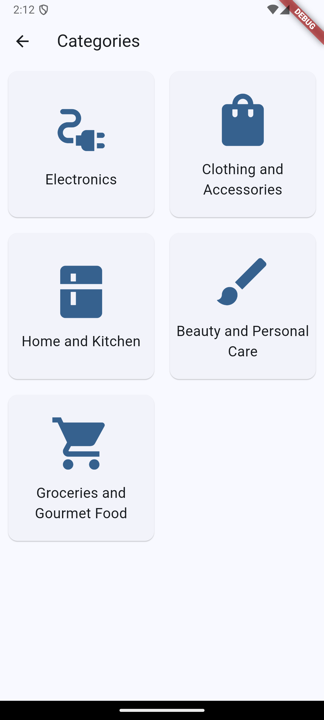
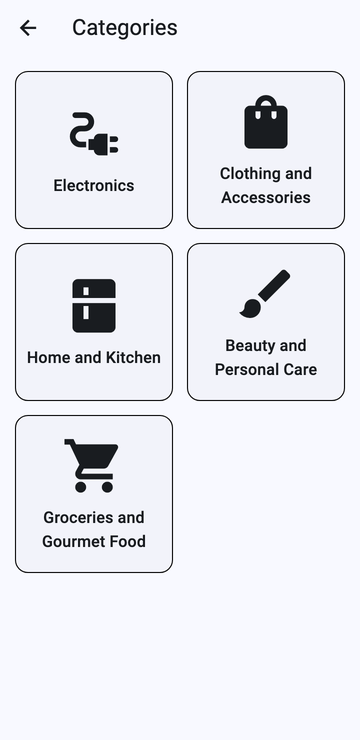
README: demo GIF, updated screenshots, features and accessibility
Screenshots and the GIF frames are rendered from the current app by
tool/render_frames_test.dart.

diff --git a/tool/render_frames_test.dart b/tool/render_frames_test.dart
@@ -1,0 +1,121 @@
+// Renders the README screenshots and demo-GIF frames from the real app,
+// using the Roboto and Material Icons fonts that ship with the Flutter SDK.
+// Not part of the test suite. Run with:
+//
+//   flutter test tool/render_frames_test.dart
+//
+// PNGs (720x1480) are written to build/frames, or to $FRAMES_DIR if set.
+import 'dart:io';
+import 'dart:ui' as ui;
+
+import 'package:flutter/material.dart';
+import 'package:flutter/rendering.dart';
+import 'package:flutter/services.dart';
+import 'package:flutter_test/flutter_test.dart';
+import 'package:shopping_app/data/product_catalog.dart';
+
+import '../test/widget/test_app.dart';
+
+final fonts = '${Platform.environment['FLUTTER_ROOT']}/bin/cache/artifacts/material_fonts/';
+final out = Platform.environment['FRAMES_DIR'] ?? 'build/frames';
+
+Future<void> loadFont(String family, List<String> files) async {
+  final loader = FontLoader(family);
+  for (final f in files) {
+    final bytes = File('$fonts$f').readAsBytesSync();
+    loader.addFont(Future.value(ByteData.view(bytes.buffer)));
+  }
+  await loader.load();
+}
+
+var frame = 0;
+Future<void> snap(WidgetTester tester, String name) async {
+  // Let images decode and colour analysis finish.
+  for (var i = 0; i < 3; i++) {
+    await tester.runAsync(() async {
+      for (final element in find.byType(Image).evaluate()) {
+        final widget = element.widget as Image;
+        await precacheImage(widget.image, element);
+      }
+      await Future<void>.delayed(const Duration(milliseconds: 300));
+    });
+    await tester.pumpAndSettle();
+  }
+  final boundary = tester.renderObject<RenderRepaintBoundary>(find.byKey(const Key('root')).first);
+  await tester.runAsync(() async {
+    final image = await boundary.toImage(pixelRatio: 2);
+    final data = await image.toByteData(format: ui.ImageByteFormat.png);
+    File('$out/${(frame++).toString().padLeft(2, '0')}_$name.png').writeAsBytesSync(data!.buffer.asUint8List());
+  });
+}
+
+void main() {
+  testWidgets('demo frames', (tester) async {
+    Directory(out).createSync(recursive: true);
+    await tester.runAsync(() async {
+      await loadFont('Roboto', ['Roboto-Regular.ttf', 'Roboto-Medium.ttf', 'Roboto-Bold.ttf']);
+      await loadFont('MaterialIcons', ['MaterialIcons-Regular.otf']);
+      // Text with no font family uses the test font; show it as Roboto too.
+      await loadFont('Ahem', ['Roboto-Regular.ttf']);
+    });
+    tester.view.physicalSize = const Size(720, 1480);
+    tester.view.devicePixelRatio = 2;
+    addTearDown(tester.view.reset);
+
+    await pumpApp(tester, wrap: (app) => RepaintBoundary(key: const Key('root'), child: app));
+    await snap(tester, 'home');
+
+    await tester.tap(find.text('Categories'));
+    await tester.pumpAndSettle();
+    await snap(tester, 'categories');
+
+    await tester.tap(find.text('Electronics'));
+    await tester.pumpAndSettle();
+    await snap(tester, 'electronics');
+    await tester.tap(find.byTooltip('Add Laptop to cart'));
+    await tester.pumpAndSettle();
+    await snap(tester, 'added');
+
+    await tester.tap(find.text('Laptop'));
+    await tester.pumpAndSettle();
+    await snap(tester, 'detail');
+
+    navigatorOf(tester).pushNamed('/voiceOrder');
+    await tester.pumpAndSettle();
+    await snap(tester, 'voice');
+    await tester.enterText(find.byKey(const Key('typedCommandField')), 'order two headphones');
+    await tester.pump();
+    await snap(tester, 'voice_typed');
+    await tester.testTextInput.receiveAction(TextInputAction.send);
+    await tester.pumpAndSettle();
+    FocusManager.instance.primaryFocus?.unfocus();
+    await tester.pumpAndSettle();
+    await snap(tester, 'voice_done');
+
+    navigatorOf(tester).pushNamed('/cart');
+    await tester.pumpAndSettle();
+    await snap(tester, 'cart');
+
+    navigatorOf(tester).pushNamed('/settings');
+    await tester.pumpAndSettle();
+    await snap(tester, 'settings');
+    final s = settingsOf(tester);
+    await s.toggleHighContrast(true);
+    await tester.pumpAndSettle();
+    await snap(tester, 'settings_hc');
+    await s.toggleVoiceControl(true);
+    await s.toggleAltText(true);
+    await s.toggleSimplifiedText(true);
+    await tester.pumpAndSettle();
+    await snap(tester, 'settings_all');
+
+    navigatorOf(tester).pushNamedAndRemoveUntil('/home', (_) => false);
+    await tester.pumpAndSettle();
+    await snap(tester, 'home_hc');
+
+    final tv = const ProductRepository().allProducts.firstWhere((p) => p.name == 'Smart TV');
+    navigatorOf(tester).pushNamed('/productDetail', arguments: tv);
+    await tester.pumpAndSettle();
+    await snap(tester, 'detail_hc');
+  });
+}

diff --git a/README.md b/README.md
@@ -1,39 +1,79 @@
 # QuantumBuy
 
+[![Flutter](https://github.com/Shivani-Radhakrishnan/QuantumBuy--Inclusive-shopping-Platform/actions/workflows/flutter.yml/badge.svg?branch=main)](https://github.com/Shivani-Radhakrishnan/QuantumBuy--Inclusive-shopping-Platform/actions/workflows/flutter.yml)
+
 **An accessible shopping app for people with disabilities, built with Flutter.**
 
 QuantumBuy explores what online shopping looks like when accessibility comes first: voice
-ordering, spoken feedback, larger text and dark mode, and help identifying product colours for
-people with colour blindness. It runs on Android, iOS and the web from one Flutter codebase.
+ordering with spoken confirmation, high-contrast and large-text modes, image descriptions,
+simplified product text, and help identifying product colours for people with colour blindness.
+It runs on Android, iOS and the web from one Flutter codebase.
+
+<p align="center">
+  <img src="docs/demo.gif" width="300" alt="Demo: browsing categories, adding a laptop to the cart, the product page naming its main colours, ordering two headphones by voice command, the cart total, then turning on high contrast, voice control, alt text and simplified text">
+</p>
 
 <p align="center">
   <img src="docs/screenshots/1-home.png" width="18%" alt="Home screen with Categories, Cart and Voice Order buttons">
-  <img src="docs/screenshots/2-categories.png" width="18%" alt="Product categories">
-  <img src="docs/screenshots/3-products.png" width="18%" alt="Electronics product list">
-  <img src="docs/screenshots/4-product-detail.png" width="18%" alt="Product detail page">
-  <img src="docs/screenshots/6-voice-order.png" width="18%" alt="Voice order screen">
+  <img src="docs/screenshots/3-products.png" width="18%" alt="Electronics product list with prices, descriptions and add/remove buttons">
+  <img src="docs/screenshots/4-product-detail.png" width="18%" alt="Laptop product page with its main colours labelled on the photo">
+  <img src="docs/screenshots/6-voice-order.png" width="18%" alt="Voice order screen confirming 'Added 2 Headphones to your cart'">
+  <img src="docs/screenshots/8-high-contrast.png" width="18%" alt="Home screen in high-contrast mode with the voice-control microphone button">
 </p>
 
 ## Features
 
-- **Voice ordering.** Tap the microphone and say "open electronics" or "order laptop".
-  Speech recognition (`speech_to_text`) navigates categories and adds items to the cart.
-- **Spoken feedback.** Text-to-speech (`flutter_tts`) reads information aloud.
-- **Accessibility settings.** Dark theme and large text apply across the app. High contrast,
-  text scaling, image alt text, voice control and simplified text are in the settings screen;
-  wiring them through every screen is in progress.
-- **Visual-impairment profile.** An onboarding survey (low vision, colour blindness, complete
-  blindness and more) to tailor the experience.
-- **Colour help.** On a product page, the app finds the product's main colours and labels where
-  they appear, for shoppers with colour blindness.
-- **Shopping basics.** Categories (electronics, clothing, home and kitchen, beauty, groceries),
-  product details, cart, checkout (UPI, card, net banking), profile, and local sign-up and login.
+- **Voice ordering.** Tap the microphone and say what you want: "order two laptops",
+  "add rice cooker", "buy a smart watch", "open groceries", "show my cart". Any product or
+  category in the catalogue is recognised, case-insensitively and tolerant of small recognition
+  errors and plurals. The app confirms each action out loud. Commands can also be typed, and the
+  screen explains what to do if microphone permission is refused.
+- **Accessibility settings that apply app-wide** and are saved between launches: dark theme,
+  large text, text scaling, high contrast, spoken product details, alt text for images, a voice
+  control shortcut and simplified text. See [Accessibility](#accessibility).
+- **Visual-impairment survey.** From Settings, pick the description that fits you (low vision,
+  colour blindness, complete blindness and more) and the recommended settings are switched on.
+- **Colour help.** Each product page names the photo's main colours ("white 48%, grey 12%") and
+  marks where they appear, for shoppers with colour blindness. The page's read-aloud button
+  speaks the name, price, description and colours.
+- **Shopping.** Five categories and 100 products, product pages, a cart with per-item
+  quantities and totals, and a checkout with validated delivery address and payment details
+  (UPI id, card number with Luhn check, expiry, CVV, or bank). Placing an order shows a
+  confirmation and empties the cart.
+- **Accounts.** Local sign-up and login, a profile with phone number, delivery address and photo,
+  and log out.
 
-## Why
+## Accessibility
 
-Accessibility research by Fable found that many disabled shoppers regularly give up on purchases
-because of accessibility barriers, and many will switch to a more accessible store even when it
-isn't the cheapest. QuantumBuy is a prototype of a store designed around those needs from the start.
+| Setting | What it does | Where |
+| --- | --- | --- |
+| Dark theme | Dark colour scheme throughout. | `lib/theme/app_theme.dart` |
+| Large text | Every text style, including buttons, is 20% larger. | `lib/theme/app_theme.dart` |
+| Text scaling | Multiplies the device's own text size by 1.3. | `AppTextScaling` in `lib/theme/app_theme.dart` |
+| High contrast | Black-on-white (or yellow-on-black in dark mode) colour scheme with 2dp outlines; the home photo background is replaced by a plain surface. | `lib/theme/app_theme.dart` |
+| Accessibility features | Reads the product name, price and description aloud when a product opens, and announces cart changes and placed orders. | `lib/screens/product_detail_screen.dart`, `lib/widgets/quantity_stepper.dart` |
+| Alt text for images | Product photos get a detailed screen-reader description (name and description) and the description is shown under the photo. Photos always have at least a "Photo of …" label. | `lib/widgets/product_image.dart` |
+| Voice control | A microphone button on the home, category, product list and product screens opens voice ordering. | `lib/widgets/voice_shortcut_button.dart` |
+| Simplified text | Product descriptions are cut to their plain first clause ("High-performance laptop."). | `lib/services/text_simplifier.dart` |
+
+Settings are stored with `shared_preferences` (`lib/models/settings_model.dart`).
+
+Beyond the settings: icon-only buttons have spoken labels (for example "Add Laptop to cart",
+"Remove one Laptop"), tap targets are at least 48x48dp, headings are marked as headers, and
+status messages (login errors, voice results, order confirmation) are announced as live regions.
+
+**Tests that cover it**
+
+- `test/widget/accessibility_guidelines_test.dart` runs Flutter's `androidTapTargetGuideline`,
+  `iOSTapTargetGuideline`, `labeledTapTargetGuideline` and `textContrastGuideline` on all twelve
+  screens, plus high contrast + dark mode and large + scaled text.
+- `test/widget/settings_effects_test.dart` checks each setting changes the app: the theme,
+  the text scale, image labels and captions, shortened descriptions, what is spoken, and the
+  microphone shortcut.
+- `test/settings_model_test.dart` checks the settings are saved and restored, and the survey
+  recommendations.
+- `test/voice_command_test.dart` and `test/widget/voice_order_test.dart` cover the voice
+  command parser and the voice order screen.
 
 ## Getting started
 
@@ -42,37 +82,54 @@ Needs [Flutter](https://docs.flutter.dev/get-started/install) 3.24 or later.
 ```bash
 flutter pub get
 flutter run            # on a connected phone, an emulator, or: flutter run -d chrome
+flutter analyze
 flutter test
 ```
+
+CI runs `flutter analyze`, `flutter test` and a web build on every push and pull request
+(`.github/workflows/flutter.yml`).
+
+## Architecture
+
+```
+lib/
+  main.dart, app.dart          entry point; providers, theme and routes
+  routes.dart                  route names
+  data/product_catalog.dart    ProductRepository: the single source of product data
+  models/                      CartModel, Order, Product, SettingsModel, UserModel (Provider ChangeNotifiers)
+  services/
+    speaker.dart               text-to-speech (flutter_tts) behind a Speaker interface
+    speech_service.dart        speech recognition (speech_to_text) behind a SpeechService interface
+    voice_command.dart         pure-Dart voice command parser
+    colour_analysis.dart       finds and names an image's main colours
+    text_simplifier.dart       simplified product descriptions
+  screens/                     one file per screen
+  widgets/                     ProductImage, ProductDescription, QuantityStepper, VoiceShortcutButton
+  theme/app_theme.dart         theme built from the display settings
+  utils/validators.dart        form validation (email, phone, UPI, card, expiry, CVV)
+test/                          unit tests; test/widget/ for widget and accessibility tests
+tool/render_frames_test.dart   renders the README screenshots from the real app
+```
+
+State lives in Provider `ChangeNotifier` models. Speech recognition and text-to-speech are
+injected through interfaces, so the widget tests drive voice commands and check what is spoken
+without a microphone or speech engine.
 
 ## Security
 
 Accounts are local to the device. Passwords are never stored: the app keeps only a salted
 PBKDF2-HMAC-SHA256 hash (10,000 iterations), compared in constant time. Data saved by older
 versions, which stored the password in plain text, is converted and the plain text deleted on
-first launch (`lib/user_model.dart`, tested in `test/user_model_test.dart`).
+first launch (`lib/models/user_model.dart`, tested in `test/user_model_test.dart`).
 
-Checkout is a demo: no payment is processed and card details aren't sent anywhere.
+Checkout is a demo: no payment is processed, and payment details are only validated on the
+device, never stored or sent anywhere.
 
-## Project structure
+## Why
 
-```
-lib/
-  main.dart                    app, theme (dark mode / large text), routes
-  home_screen.dart             home: categories, cart, voice order
-  categories_screen.dart       category grid
-  product_list_screen.dart     products in a category
-  product_detail_screen.dart   product page + colour analysis
-  voice_order_screen.dart      speech commands
-  cart_screen.dart, checkout_screen.dart
-  settings_screen.dart         accessibility settings
-  impairment_screen.dart       visual-impairment survey
-  avatar_screen.dart           animated 3-D avatar
-  login_screen.dart, registration_screen.dart, profile_screen.dart, edit_profile_screen.dart
-  user_model.dart, cart_model.dart, settings_model.dart, product_model.dart
-test/                          unit tests
-assets/                        product images, 3-D model
-```
+Accessibility research by Fable found that many disabled shoppers regularly give up on purchases
+because of accessibility barriers, and many will switch to a more accessible store even when it
+isn't the cheapest. QuantumBuy is a prototype of a store designed around those needs from the start.
 
 ## License
 
